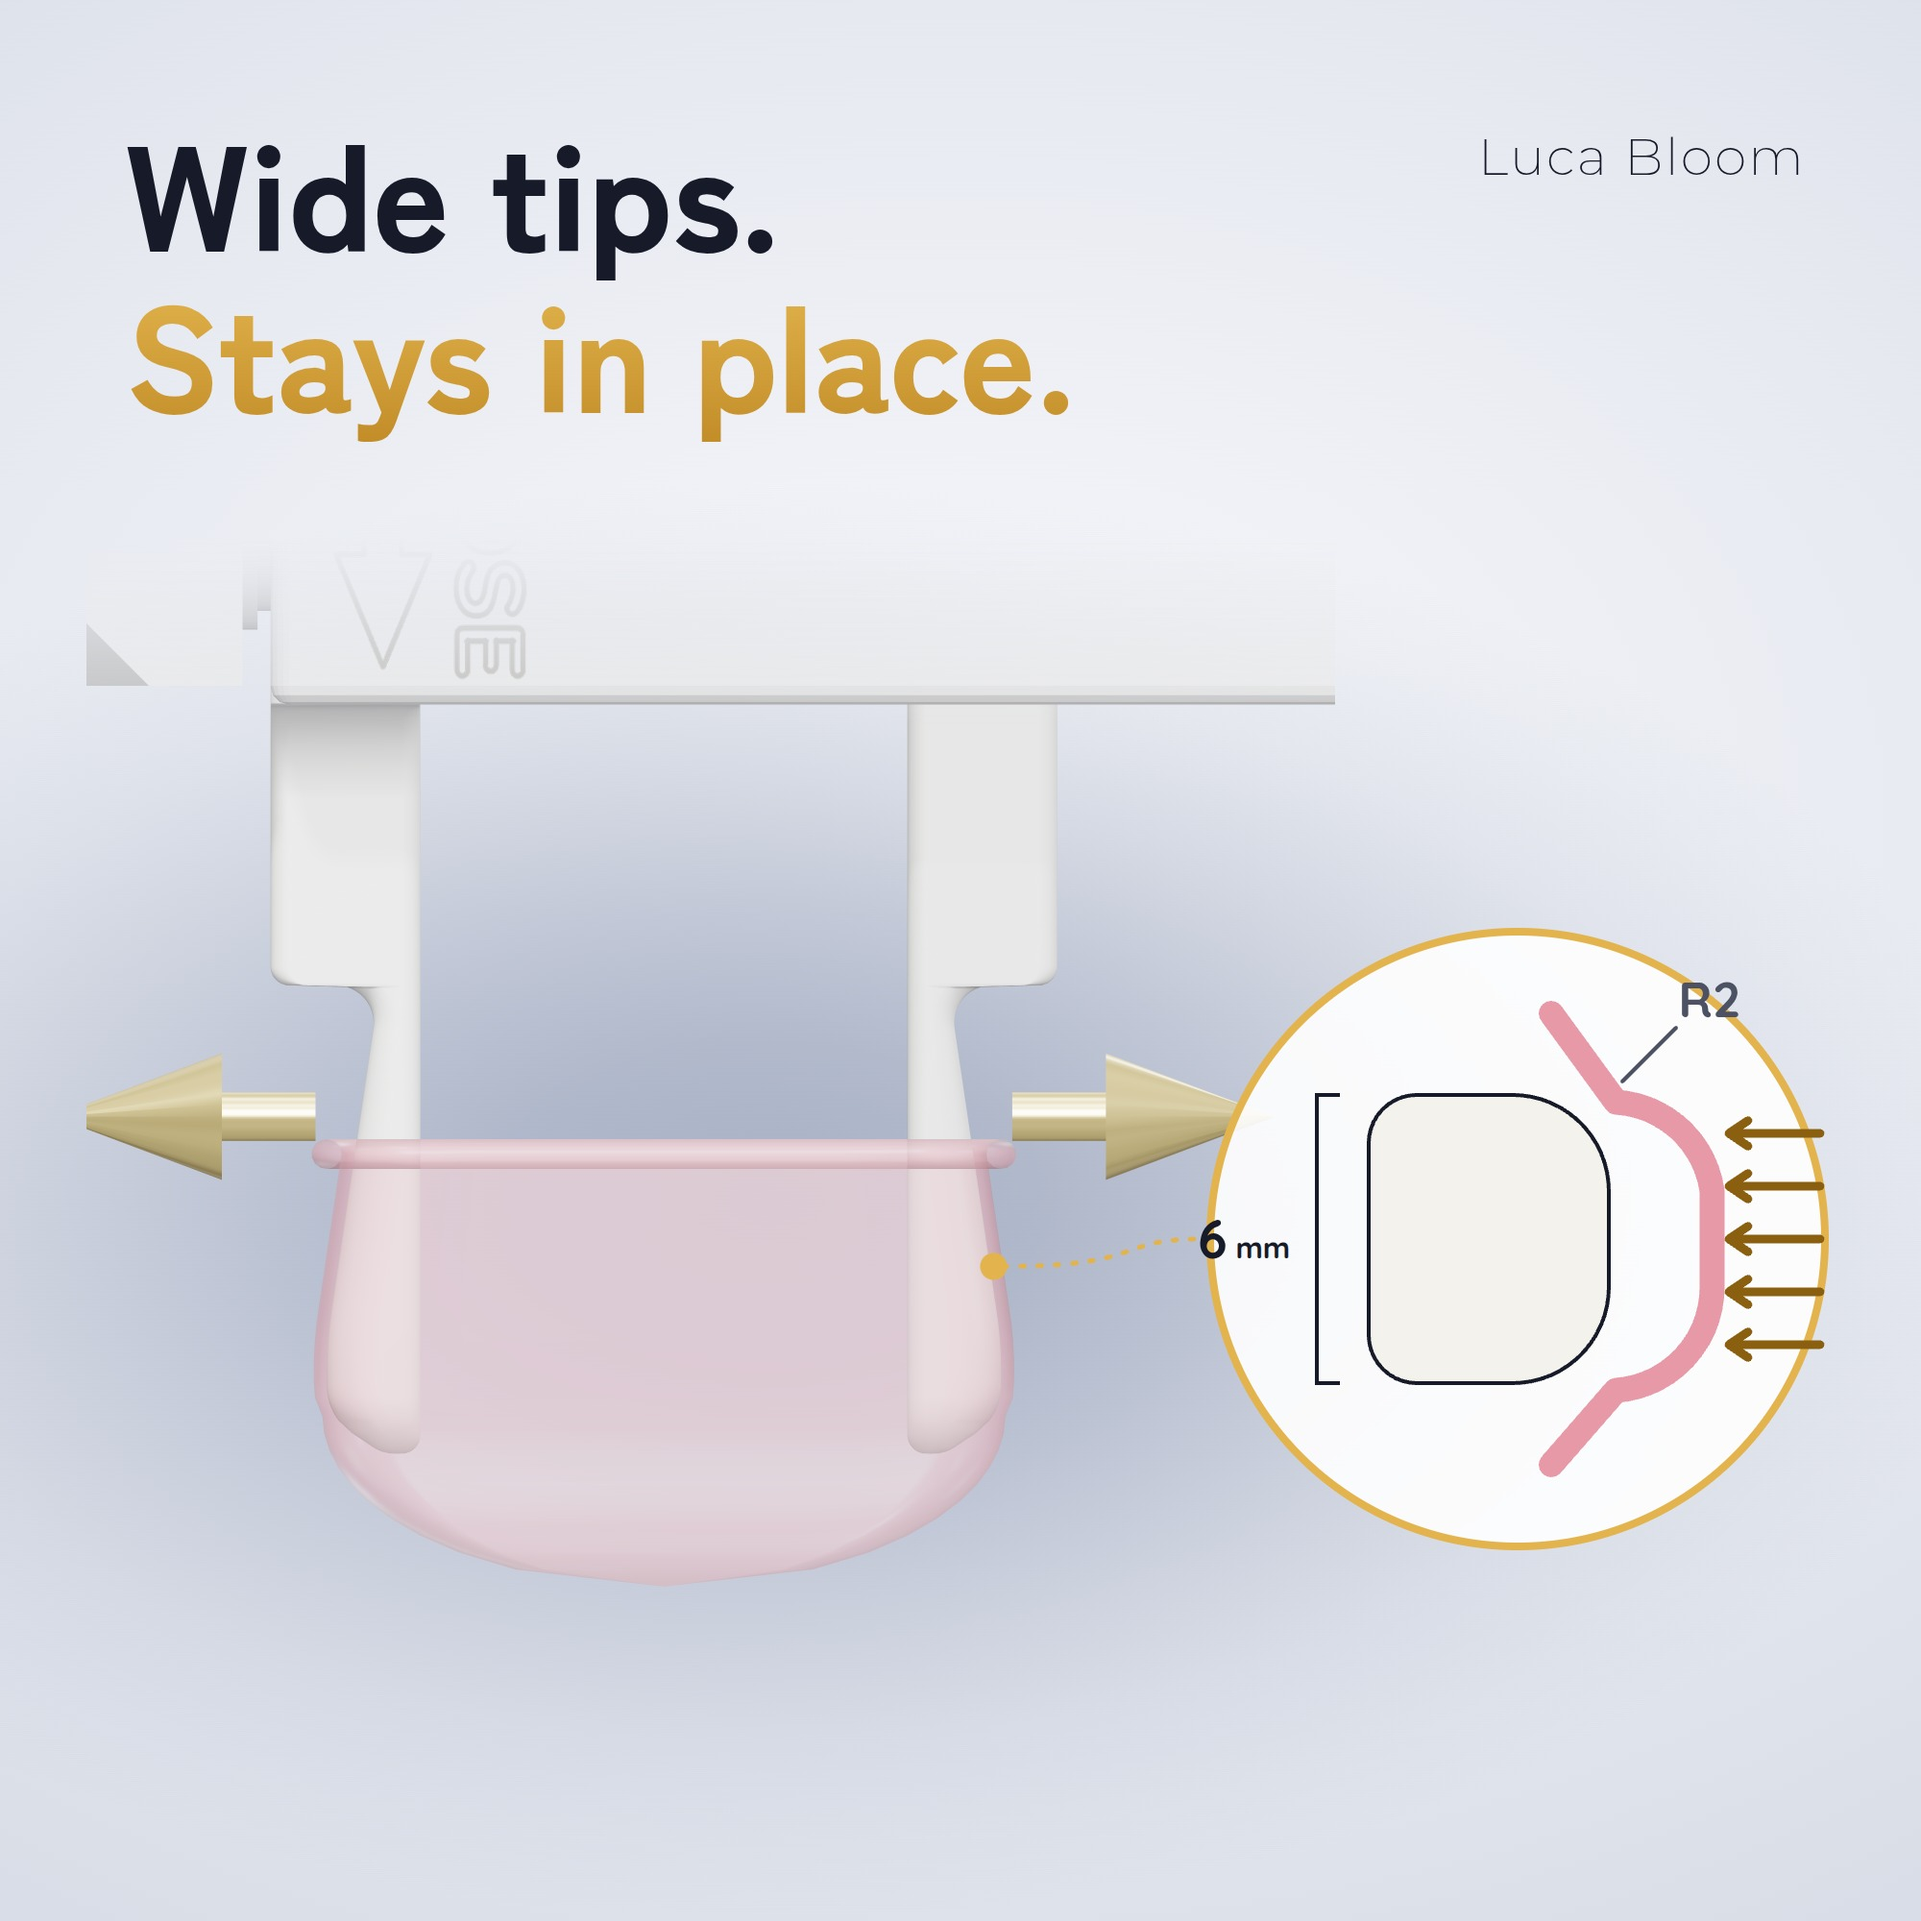
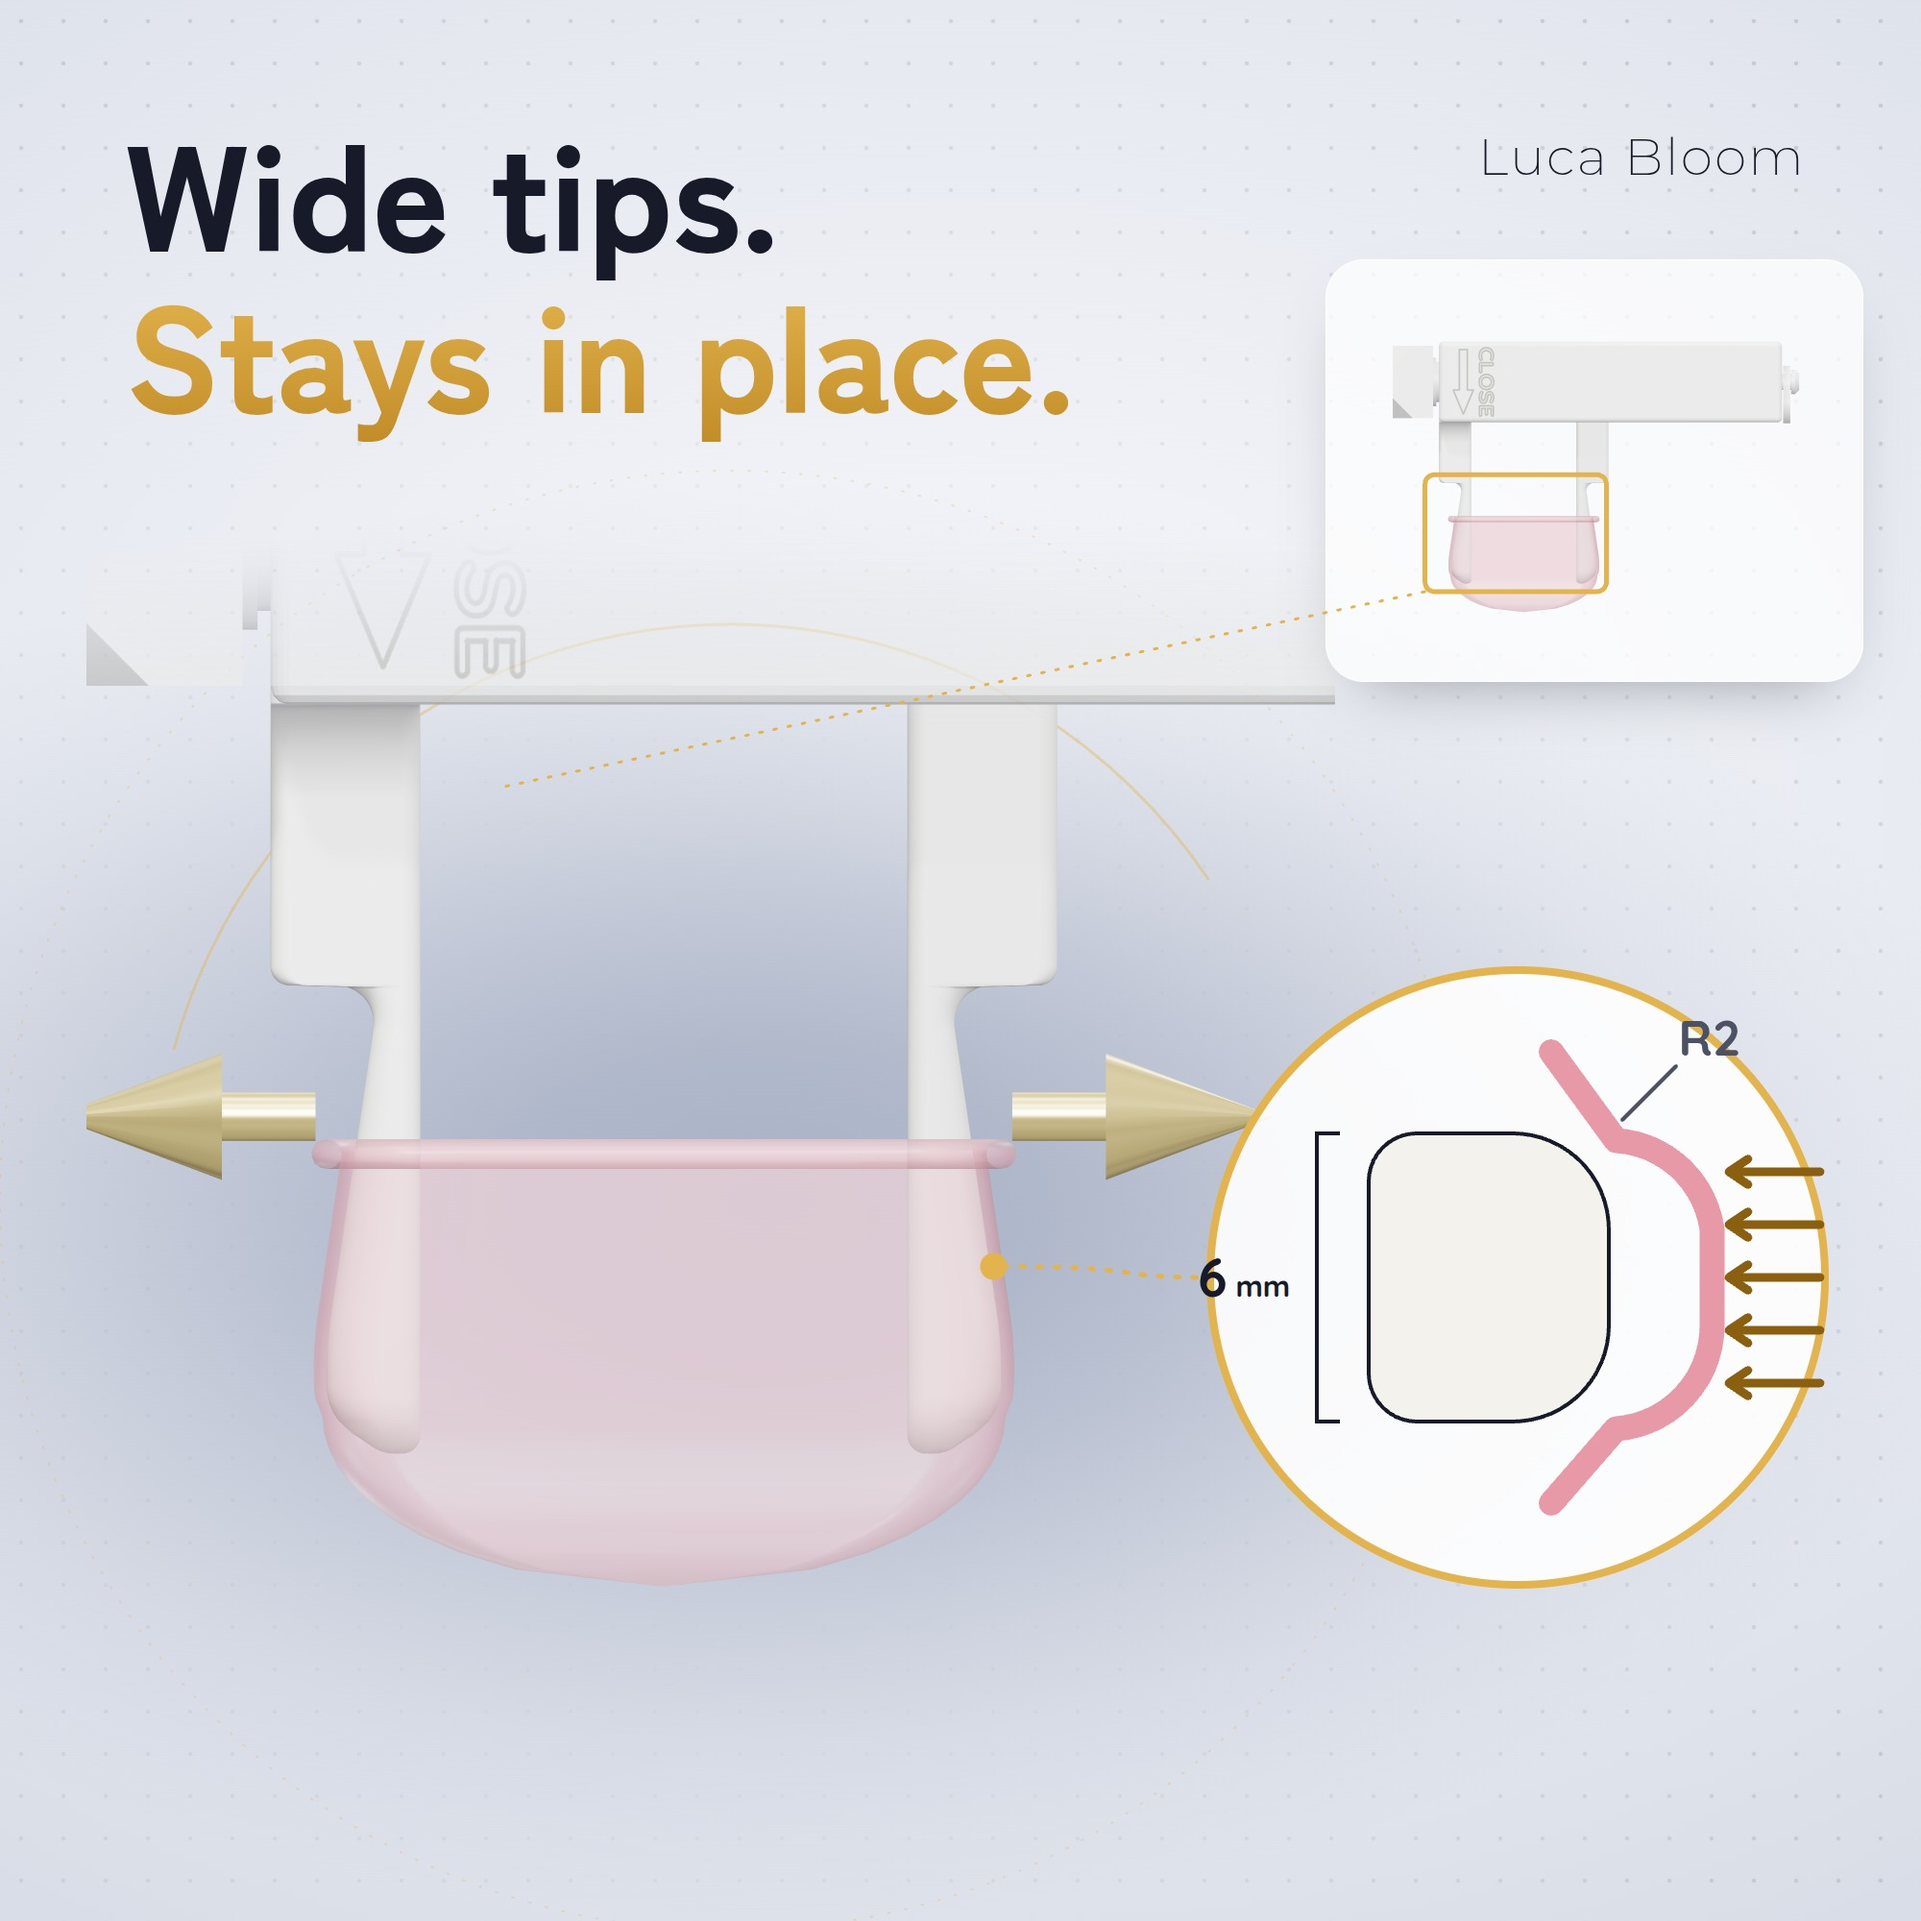
Amazon商品画像を3枚に：化粧箱を製品の横に（上端の切れを解消）、回転の矢印を控えめに、寸法線を3Dの点から求めて製品の位置に一致、背景に点の格子と金の円弧
Claude-Session: https://claude.ai/code/session_016YenGTG3x62jvD6ZRQeA6d

diff --git a/tools/amazon/shots.js b/tools/amazon/shots.js
@@ -94,7 +94,7 @@ const tip = (p, t, r, h) => {
 // ハンドルの回転の矢印：ハンドルの軸（x 方向、高さ y=10）を囲む輪。手前側で上へ回る向き＝アームが開く向き
 const turnArrow = new Group();
 {
-  const R = 19;
+  const R = 15;
   const X = -50;
   const P = (f) => new Vector3(X, 10 + R * Math.sin(f), R * Math.cos(f));
   // 奥の上から下を回って手前を上がり、矢じりは手前で上を向く
@@ -102,10 +102,10 @@ const turnArrow = new Group();
   const f1 = (20 * Math.PI) / 180;
   const pts = [];
   for (let i = 0; i <= 80; i++) pts.push(P(f0 + ((f1 - f0) * i) / 80));
-  const tube = new Mesh(new TubeGeometry(new CatmullRomCurve3(pts), 160, 2, 20, false), GOLD);
+  const tube = new Mesh(new TubeGeometry(new CatmullRomCurve3(pts), 160, 0.95, 16, false), GOLD);
   tube.castShadow = true;
   turnArrow.add(tube);
-  turnArrow.add(tip(P(f1), new Vector3(0, Math.cos(f1), -Math.sin(f1)), 5, 11));
+  turnArrow.add(tip(P(f1), new Vector3(0, Math.cos(f1), -Math.sin(f1)), 2.6, 6.5));
 }
 device.dev.add(turnArrow);
 // 直線の矢印（a → b）

diff --git a/amazon/README.md b/amazon/README.md
@@ -3,17 +3,16 @@
 同じ ASIN（商品番号）で全世界に出品するため、画像は **全世界共通の1組**（`global/`）。日本でも海外でもこの画像を使う。
 見た目は LP に合わせる（淡いグレーの光、本体の後ろに青みのグレーの光、紺と金のアクセント）。
 
-## 画像（2000×2000・JPEG・4枚）
+## 画像（2000×2000・JPEG・3枚）
 
 細かい説明は動画に任せ、画像は「見て欲しくなる」ことを優先する。文字は見出しと数字だけ（簡単な英語）。
-本体・化粧箱・金色の立体の矢印は 3Dモデルで描く。
+本体・化粧箱・金色の立体の矢印は 3Dモデルで描く。寸法線は 3Dモデルの点から求めるので、製品の位置と一致する。
 
 | ファイル | 見出し | 見せること |
 |---|---|---|
-| `01-hero.jpg` | Turn. Open. Stays put. | ハンドルを囲む立体の回転の矢印と、アームが開く動き（残像）。70 mm・Stepless・Self-lock |
-| `02-size.jpg` | 10 → 70 mm | 閉じた時（先端の外側10mm・くぼみ部5mm）と、開いた時（70mm）。ハンドル1回転で2mm |
-| `03-hold.jpg` | Wide tips. Stays in place. | 2本のアームが膜（ピンク）を内側から押し広げ、膜の口はくびれ部に収まる。アームの断面（図面どおり：幅6mm×厚さ5mm、肌側の角R2・内側R1） |
-| `04-privacy.jpg` | Discreet by design. | 「Luca Bloom」の文字だけの化粧箱と、専用のクッション材に収まった本体。製造国（中国）・日本で検品と組立・18歳以上 |
+| `01-hero.jpg` | Turn. Open. Stays put. | ハンドルの回転（立体の矢印）とアームが開く動き（残像）、横に「Luca Bloom」の文字だけの化粧箱。70 mm・Stepless・Self-lock・Discreet。製造国（中国）・日本で検品と組立・18歳以上 |
+| `02-size.jpg` | 10 → 70 mm | 閉じた時（先端の外側10mm・くぼみ部5mm）と、開いた時（70mm）。ハンドルの拡大（立体の回転の矢印）と、1回転で2mm |
+| `03-hold.jpg` | Wide tips. Stays in place. | 2本のアームが膜（ピンク）を内側から押し広げ、膜の口はくびれ部に収まる。全体のどこを拡大したか、アームの断面（図面どおり：幅6mm×厚さ5mm、肌側の角R2・内側R1） |
 
 Amazon の**メイン画像（1枚目）は白い背景・文字なしの製品写真**の決まりがあるため、この4枚は2枚目以降に使う。
 
